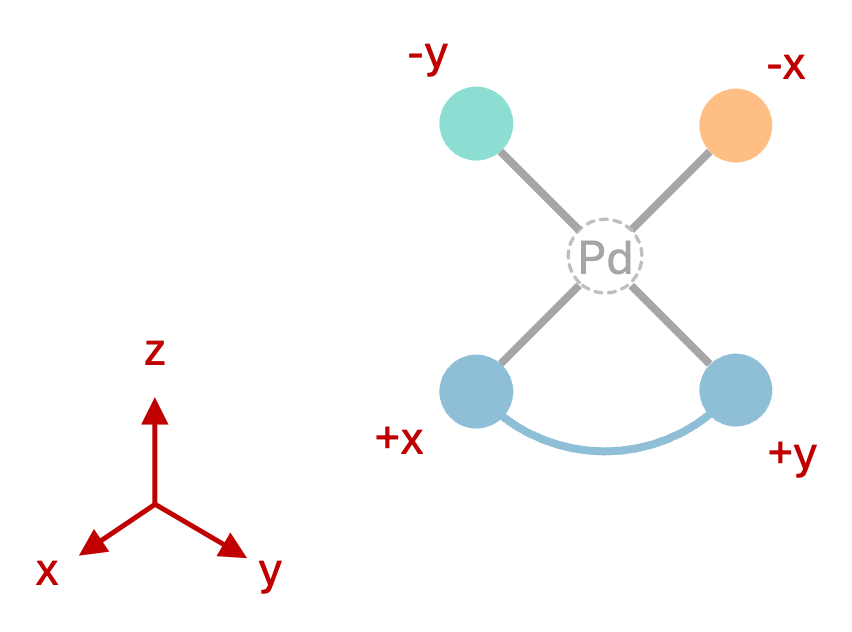
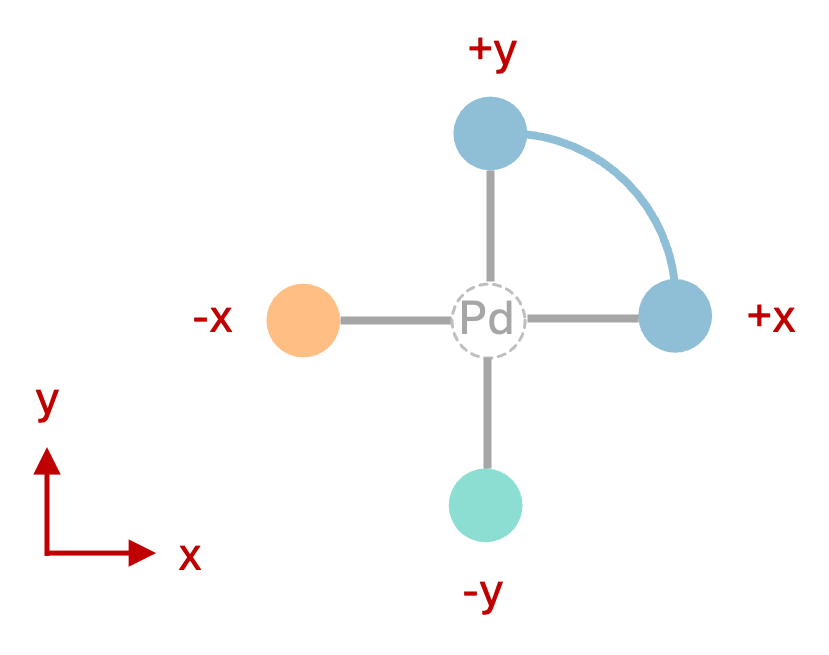
Updated docs and tried push to test pypi

diff --git a/DARTassembler/src/metalig/mol.py b/DARTassembler/src/metalig/mol.py
@@ -1358,7 +1358,7 @@ class Ligand(BaseMolecule):
 
         .. tip::
 
-            SMARTS patterns are extremely powerful for defining chemical substructures and environments. However, the can also be quite complex to construct. We have made very good experience with AI assistants like ChatGPT to help generate SMARTS patterns. You can also verify the correctness of your SMARTS patterns using online tools such as the `online SMARTS tester <https://smarts.plus/>`_.
+            While SMARTS patterns are very useful to define chemical substructures, they can be difficult to create. However, AI assistants can help you, and you can verify the correctness of your SMARTS patterns using tools such as the `online SMARTS tester <https://smarts.plus/>`_.
 
         **Examples :**
 

diff --git a/setup.py b/setup.py
@@ -1,6 +1,6 @@
 from setuptools import setup, find_packages
 
-version = "1.0.4"
+version = "1.0.4.1"
 
 with open('requirements.txt') as f:
     requirements = f.read().splitlines()
@@ -40,7 +40,6 @@ setup(
         "Programming Language :: Python :: 3.12",
         "Programming Language :: Python :: 3.13",
         "Programming Language :: Python :: 3.14",
-        "License :: OSI Approved :: MIT License",
         "Operating System :: OS Independent",
     ],
 )

diff --git a/DARTassembler/__init__.py b/DARTassembler/__init__.py
@@ -1,4 +1,4 @@
-__version__ = '1.0.4'
+__version__ = '1.0.4.1'
 # Ignore warnings
 import warnings
 warnings.filterwarnings("ignore")

diff --git a/docs/doc_files/1_quickstart.rst b/docs/doc_files/1_quickstart.rst
@@ -1,4 +1,4 @@
-.. _quickstart:
+git .. _quickstart:
 
 Quickstart Guide
 =================================
@@ -7,7 +7,9 @@ Quickstart Guide
 
 Welcome to the quickstart guide for DART!
 
-DART is a python package to generate approximate 3D structures of transition metal complexes from a large database of distinct 41,018 ligands, the :ref:`MetaLig ligand database <metalig>`. The ligands were curated from more than 100,000 transition metal complexes from the Cambridge Structural Database (CSD) and cover a wide chemical space with denticities ranging from monodentate to decadentate ligands, and even including haptically coordinating ligands. DART is like LEGO for transition metal complexes: the building blocks are atoms (for the metal centers) and ligands from the MetaLig. Users specify the chemical space (geometry, metal centers, type of ligand) they want to explore, and DART will automatically query the MetaLig database for all ligands that fit the criteria, assemble all possible combinations (or a random subset) of ligands, and save the generated complexes in easy-to-read .xyz and .json files. The generated structures are approximate, but they are a great starting point for further geometry optimizations with quantum chemistry methods such as DFT.
+DART is a python package to generate approximate 3D structures of transition metal complexes from a large database of 41,018 distinct ligands, the :ref:`MetaLig ligand database <metalig>`. The ligands were curated from more than 100,000 transition metal complexes from the Cambridge Structural Database (CSD) and cover a wide chemical space with denticities ranging from monodentate to decadentate ligands, and even including haptically coordinating ligands.
+
+DART is like LEGO for transition metal complexes: the building blocks are atoms (for the metal centers) and ligands from the MetaLig. Users specify the chemical space (geometry, metal centers, type of ligand) they want to explore, and DART will automatically query the MetaLig database for all ligands that fit the criteria, assemble all possible combinations of ligands (or a random subset), and save the generated complexes as .xyz and .json files. The generated structures are approximate, but they are a great starting point for further geometry optimizations with quantum chemistry methods such as DFT.
 
 As an introductory example, we will walk through the process of assembling 100 square-planar neutral Pd(II) complexes. Each complex will feature one cis-bidentate ligand and two monodentate ligands. We will first assemble complexes using randomly sampled ligands from the MetaLig, without targeting any particular chemical space. Then, we will learn how to filter down the input ligands in order to generate complexes targeted to a certain chemical space and to generate those that are more likely to form stable complexes.
 
@@ -26,12 +28,7 @@ Code along and visualize the results with ase
 
 We invite you to code along with this tutorial. Reading is good, but doing is better! DART is a command-line tool, so you will need to use your terminal to run the commands. Each section provides code snippets that you can copy-paste into your terminal.
 
-DART uses the excellent `ase <https://ase-lib.org>`_ (Atomic Simulation Environment) package, which should be installed automatically along DART. Additionally to its use in the python code, we will also use the versatile ``ase`` package in this tutorial to visualize 3D atomic structures saved as .xyz files, such as the ligands in the MetaLig database or the generated complexes. The syntax to visualize a .xyz file with ``ase`` is always
-
-.. code-block:: bash
-
-    ase gui FILENAME.xyz
-
+DART relies on the excellent `ase <https://ase-lib.org>`_ (Atomic Simulation Environment) package, which is installed automatically along DART. Additionally to its use in the python code, we will also use the ``ase gui`` terminal command in this tutorial to visualize 3D atomic structures saved as .xyz files, such as the ligands in the MetaLig database or the generated complexes. The syntax to visualize a .xyz file with ``ase`` is always ``ase gui FILENAME.xyz``.
 
 Make a Working Directory for this Tutorial
 --------------------------------------------
@@ -52,7 +49,7 @@ To explore the :ref:`MetaLig ligand database <metalig>`, use the ``dbinfo`` modu
 
     DARTassembler dbinfo --db metalig --n 5000
 
-You can read this command as follows: use the ``dbinfo`` module of ``DARTassembler``, and for this module specify the options ``--db metalig`` as a shortcut to the full MetaLig database, and ``--n 5000`` to only load the first 5,000 ligands from the database to speed up this example. You can of course load the entire database by omitting the ``--n`` option, but for this quickstart tutorial we want to keep things fast. Later, you can also read in custom ligand database files by providing the path to the file instead of ``metalig``, e.g. ``--db /path/to/your/ligand_db.jsonlines``.
+You can read this command as follows: use the ``dbinfo`` module of ``DARTassembler``, and for this module specify the options ``--db metalig`` as a shortcut to the full MetaLig database, and ``--n 5000`` to only load the first 5,000 ligands from the database to speed up this example. You can of course load the entire database by omitting the ``--n`` option, but for this quickstart tutorial we want to keep things fast. Later, you can also read in custom ligand database files by providing the path to the file instead of ``--db metalig``, e.g. ``--db /path/to/your/ligand_db.jsonlines``.
 
 The above command will immediately save two files. The first file is a concatenated .xyz file with the 3D structures of all the ligands. You can visualize and browse through the structures of the ligands by typing ``ase gui concat_MetaLigDB_v1.1.0.xyz`` in your terminal. The gui will open with three tabs. The left one shows the 3D structure of the ligand, the middle tab you can ignore, and in the right tab you can scroll or play a slideshow to browse through the ligands. You can also drag each tab out of the main window to create a new window, so you can view the 3D structure and the option for scrolling at the same time. The structures will show you a wide variety of ligands. Each ligand is coordinated to a dummy Cu metal center for visualization purposes only; the actual ligand is without the Cu atom. The Cu atom is placed at the location of the original metal center from the CSD entry from which this ligand was extracted, which also coincides with how the new metal centers will be placed when assembling new complexes with DART in the assembler module.
 
@@ -85,11 +82,11 @@ To use the :ref:`Assembler Module <assembler>`, we need to provide an input file
 
 The options are as follows: we want to generate neutral Pd(II) complexes, so we set the ``metal_centers`` to ``Pd`` and the ``total_ligand_charges`` to ``-2``, such that the -2 charge from all ligands balances the +2 charge from the Pd(II) center to give neutral complexes. We want to use the entire MetaLig database, but only load the first 5,000 ligands to speed up this example, so we set ``ligand_db_files`` to ``metalig`` and ``n_max_ligands`` to ``5000``. We also set ``n_max_complexes`` to ``100`` to only generate 100 random complexes (but all isomers of each complex).
 
-The ``ligand_archetypes`` and ``target_vectors`` have a 1:1 relationship: they specify options for each binding site, so they must have the same number of entries, and they are read in the same order. The ``ligand_archetypes`` specify the type of ligand to assemble, here one cis-bidentate ligand (``2-cis``) and two monodentate ligands (``1-mono``, ``1-mono``). The ``target_vectors`` define the metal-donor orientation for each of the three ligands as shown in Figure 1 (where e.g. ``'+x'`` is short for the the Cartesian vector ``(1, 0, 0)``):
+The ``ligand_archetypes`` and ``target_vectors`` have a 1:1 relationship: they specify options for each binding site, so they must have the same number of entries, and they are read in the same order. The ``ligand_archetypes`` specify the type of ligand to assemble, here one cis-bidentate ligand (``2-cis``) and two monodentate ligands (``1-mono``, ``1-mono``). The ligands are then arranged around the metal center according to the ``target_vectors``, where the metal center per default occupies the origin of the Cartesian coordinate system ``(0, 0, 0)``, and the location of each ligand is defined by a vector in Cartesian coordinates. For example, ``'+x'`` is short for the the Cartesian vector ``(1, 0, 0)``. The ``target_vectors`` in the above file thus define a square-planar geometry for the Pd(II) complexes, as shown in Figure 1 below:
 
- - ``['+x', '+y']`` : the first ligand (the cis-bidentate) will be coordinated to the metal center along the +X, +Y axes. The list has two entries because the ``2-cis`` ligand has two donor atoms.
- - ``['-x']`` : the second ligand (monodentate) will be coordinated along the -X axis. The list has one entry because the ``1-mono`` ligand has one donor atom.
- - ``['-y']`` : the third ligand (monodentate) will be coordinated along the -Y axis. The list has one entry because the ``1-mono`` ligand has one donor atom.
+ - ``['+x', '+y']`` : the first ligand (the cis-bidentate) will be coordinated to the metal center along the +X, +Y axes. The list has two entries because the ``2-cis`` ligand has two donor atoms. Instead of the abbreviation ``['+x', '+y']``, you would get identical results by providing the full Cartesian vectors ``[[1, 0, 0], [0, 1, 0]]``.
+ - ``['-x']`` : the second ligand (monodentate) will be coordinated along the -X axis. The list has one entry because the ``1-mono`` ligand has one donor atom. Instead of the abbreviation ``['-x']``, you would get identical results by providing the full Cartesian vector ``[[-1, 0, 0]]``.
+ - ``['-y']`` : the third ligand (monodentate) will be coordinated along the -Y axis. The list has one entry because the ``1-mono`` ligand has one donor atom. Instead of the abbreviation ``['-y']``, you would get identical results by providing the full Cartesian vector ``[[0, -1, 0]]``.
 
 .. figure:: /_static/Pd_sqplanar.png
    :width: 50%
@@ -105,7 +102,7 @@ Now execute the following command in your terminal:
 
     DARTassembler assembler --input assembler.yml
 
-You can see that the assembler module prints the progress to the terminal and saves the output files in the ``DARTassembler`` folder. You can get an overview of the assembled complexes by opening the file ``isomers.csv`` with a program such as Excel. This file displays information on all isomers of all complexes DART tried to assemble. DART automatically generates all possible geometric isomers, which is why most of our Pd(II) complexes in the csv file have 2 successful entries. However, you will notice that some complexes have only one or even zero successful isomers, which indicates they were filtered out due to steric clashes or duplicates (e.g. if the chosen cis-bidentate ligand is symmetrical). In total, we see 186 isomers of 100 complexes were successfully assembled, meaning most complexes have two valid isomers generated.
+The assembler module prints the progress to the terminal and saves the output files in the ``DARTassembler`` folder. You can get an overview of the assembled complexes by opening the file ``isomers.csv`` with a program such as Excel. This file displays information on all isomers of all complexes DART tried to assemble. DART automatically generates all possible geometric isomers, which is why most of our Pd(II) complexes in the csv file have 2 successful entries. However, you will notice that some complexes have only one or even zero successful isomers, which indicates they were filtered out due to steric clashes or duplicates (e.g. if the chosen cis-bidentate ligand is symmetrical). In total, we see 186 isomers of 100 complexes were successfully assembled, meaning most complexes have two valid isomers generated.
 
 Now, we can also browse through all successfully assembled structures by opening the concatenated .xyz file with the ase gui:
 
@@ -113,9 +110,11 @@ Now, we can also browse through all successfully assembled structures by opening
 
     ase gui DARTassembler/batches/PdII/concat_passed_isomers.xyz
 
-Browsing through the assembled structures, you will see that using the entire MetaLig database without any filters results in a very diverse chemical space. In the following section, we will learn how to filter the ligands to generate complexes with more chemically uniform structures.
+Browsing through the assembled structures, you will notice that using the entire MetaLig database without any filters results in a very diverse chemical space. In the following section, we will learn how to filter the ligands to generate complexes with more chemically uniform structures.
 
 Feel free now to play with the target vectors and see what happens when you provide other sets of target vectors. Can you swap the cis/trans orientation of the two monodentates relative to the bidentate? For more information on these settings, and especially the target vectors, please refer to the :ref:`assembler module documentation <assembler>`.
+
+Please close the ase gui window now before proceeding to the next section.
 
 Target Chemical Space
 ------------------------
@@ -186,13 +185,15 @@ Now, run the LigandFilters module:
     DARTassembler ligandfilters --input haptic.yml
     DARTassembler ligandfilters --input N-N.yml
 
-You can see that the Br filter of course returns just 1 ligand, the haptic C-donor filter returns 42 ligands and the N-N cis-bidentate filter returns 24 ligands, making 1,008 possible complexes. If we would have used the entire MetaLig database instead of the small test set of 5,000 ligands, the numbers would be much higher: 294 haptic C-donors and 215 N-N cis-bidentate ligands, enabling the generation of 63,210 distinct complexes or 126,420 isomers!
+The Br filter returns just 1 ligand, the haptic C-donor filter returns 42 ligands and the N-N cis-bidentate filter returns 24 ligands, making 1,008 possible complexes. If we would have used the entire MetaLig database instead of the small test set of 5,000 ligands, the numbers would be much higher: 294 haptic C-donors and 215 N-N cis-bidentate ligands, enabling the generation of 63,210 distinct complexes or 126,420 isomers!
 
 Each filter process creates a new ligand database file (e.g. ``N-N.jsonlines``) containing only the ligands that passed the filter criteria. Additionally, a new directory called ``info_N-N`` is created, containing detailed information about the filtering process. You can use this information to verify that the filters worked as intended. For example, let's check that all the N-N bidentate ligands contain at least one carbonyl group by visualizing all ligands that passed the filter:
 
 .. code-block:: bash
 
     ase gui info_N-N/concat_xyz/concat_Passed.xyz
+
+After inspection, please close the ase gui window before proceeding to the next section.
 
 **Assembling Complexes with Targeted Chemical Space:**
 
@@ -251,7 +252,9 @@ The assembler will now draw all its ligands from the specified ligand .jsonlines
 
     ase gui DARTassembler/batches/PdII_targeted/concat_passed_isomers.xyz
 
-You can see that the resulting complexes have a more uniform chemistry, adhering strictly to the defined parameters, while still covering a wide chemical space. This method is excellent for generating a diverse set of complexes with well defined chemical properties for your research.
+The resulting complexes have a more uniform chemistry, adhering strictly to the defined parameters, while still covering a wide chemical space. This method is excellent for generating a diverse set of complexes with well defined chemical properties for your research.
+
+Please close the ase gui window again before proceeding to the next section.
 
 Understand the Output of the Assembler Module
 ------------------------------------------------
@@ -260,17 +263,21 @@ Now, let's check the output files generated by the assembler module for the targ
 
 .. code-block:: bash
 
-    cd DARTassembler/batches/PdII_targeted/complexes/IBEKOWAV
+    cd DARTassembler/batches/PdII_targeted/complexes/ABAPAKOP
 
-This directory belongs to a complex named ``IBEKOWAV``. DART automatically generates these random names for each complex. The directory contains three files:
+.. note ::
 
-**IBEKOWAV1.xyz :**
+    DART automatically generates random 8-letter names for each complex, such as ``ABAPAKOP``. If the randomly generated names differ on your system, just navigate to any of the complex directories within ``DARTassembler/batches/PdII_targeted/complexes/``.
+
+This directory belongs to a complex named ``ABAPAKOP``. The directory contains three files:
+
+**ABAPAKOP1.xyz :**
     The structure of the first isomer of the complex.
 
-**IBEKOWAV2.xyz :**
+**ABAPAKOP2.xyz :**
     The structure of the second isomer of the complex.
 
-**IBEKOWAV.json :**
+**ABAPAKOP.json :**
     A comprehensive file containing detailed information about the complex, including ligand properties, all geometric isomers, and the molecular graph of the complex.
 
 For more information on the output files and their contents, please refer to the :ref:`assembler output documentation <assembly_output>`.

diff --git a/dev/DEVELOPER_README.md b/dev/DEVELOPER_README.md
@@ -173,7 +173,8 @@ Then follow these steps to release a new version of DART on PyPI (pip):
 On your test branch, test on TestPyPI first:
    1. Append .1 to the end of the version number in ``setup.py`` and ``__init__.py`` (i.e. a 'debug' version ``D``) in case we need to upload multiple test versions while debugging.
    2. Build package locally: ``python3 -m build --sdist; python3 -m build --wheel``
-   3. Upload to TestPyPI: ``twine upload -r testpypi dist/DARTassembler-X.Y.Z.D*``
+        - If this doesn't work, it's most likely because the "build" package is not installed in your conda environment. Install it with ``pip install build``, not with conda. If you get some shadowing errors, it's just because you also have a folder called "build" in your project directory. After installing the build package, it should work because it takes precedence.
+   3. Upload to TestPyPI: ``twine upload -r testpypi dist/dartassembler-X.Y.Z.D*``
    4. Make new conda environment to test the new version: ``conda create --name test_DARTassemblerX.Y.Z.D python=3.10 pip``. 
    5. Activate the new environment, then install and test from TestPyPI: ``pip install --index-url https://test.pypi.org/simple/ --extra-index-url https://pypi.org/simple DARTassembler==X.Y.Z.D``
    6. If everything works, continue with the next steps. If not, fix the issue, increment the 'debug' version number and try again.
@@ -187,8 +188,20 @@ If everything works:
    11. On GitHub, create a new release with the tag ``vX.Y.Z`` and add a description of the changes.
    12. Re-build the documentation on ReadTheDocs: https://readthedocs.org/projects/dartassembler/builds/
 
-## CI Pytests
+## Getting feedback from other people
+Text message to send, include the docs.zip attachment and adjust the version number as needed:
 
+```
+Hey Pablo,
+I have pushed the DART package to the test PyPI instance, so you can install it as with pip. Ideally, first make a new conda environment for testing, e.g.:
+conda create --name test_DART1 python=3.10 pip
+
+Then, activate the new environment and install DART from the test PyPI:
+pip install --index-url https://test.pypi.org/simple/ --extra-index-url https://pypi.org/simple DARTassembler==1.0.4.1
+
+For the documentation, please unzip the attached file "docs.zip" and open the file "docs/_build/html/index.html". That should land you on the first page of the DART documentation.
+Thanks for testing our package! Let me know if you have any issues or questions.
+```
 
 
 ## Known issues

diff --git a/docs/doc_files/2_ligand_filters.rst b/docs/doc_files/2_ligand_filters.rst
@@ -55,6 +55,8 @@ LigandFilters Options
 
 The provided filters are applied in the order they are listed in the ``filters`` list. Each filter is a dictionary with a key ``'filter'`` specifying the filter type and other filter-specific keys. Each filter is then passed to the corresponding method of the :class:`DARTassembler.src.metalig.mol.Ligand` class. Please refer to the docstrings of these 4 methods for a detailed description of all available options. You will see that the options match perfectly with the options in the .yml configuration template above.
 
+**Usage:** To use these filters on a database, it is recommended to use the terminal command ``DARTassembler ligandfilters --input ligandfilters.yml`` and edit the provided configuration file as needed. The python API below is mainly to document the available options in a single place and for users who want to write their own filtering scripts in Python.
+
 .. _property_filter:
 .. autofunction:: DARTassembler.src.metalig.mol.Ligand.property_filter
    :no-index:

diff --git a/docs/doc_files/2_metalig_database.rst b/docs/doc_files/2_metalig_database.rst
@@ -58,7 +58,7 @@ Filter the MetaLig in Python
 ----------------------------------------------
 For many users, the DART Ligand Filters module will be enough to filter ligands with exactly defined properties. For complete freedom in filtering and exploring, the MetaLig database can be accessed via the DARTassembler Python API, specifically the :class:`LigandDB <DARTassembler.src.metalig.db.LigandDB>` and :class:`Ligand <DARTassembler.src.metalig.mol.Ligand>` classes. This allows you to write your own custom filtering scripts in Python to target ligands with exactly the properties you need.
 
-As an example, let us extract Cp-like ligands from the MetaLig database. First, read in the MetaLig. To speed things up in this example, let's only load the first 1000 ligands.
+As an example, let us extract Cp-like ligands from the MetaLig database. First, read in the MetaLig. To speed things up in this example, let's only load the first 5000 ligands.
 
 .. code-block:: python
 
